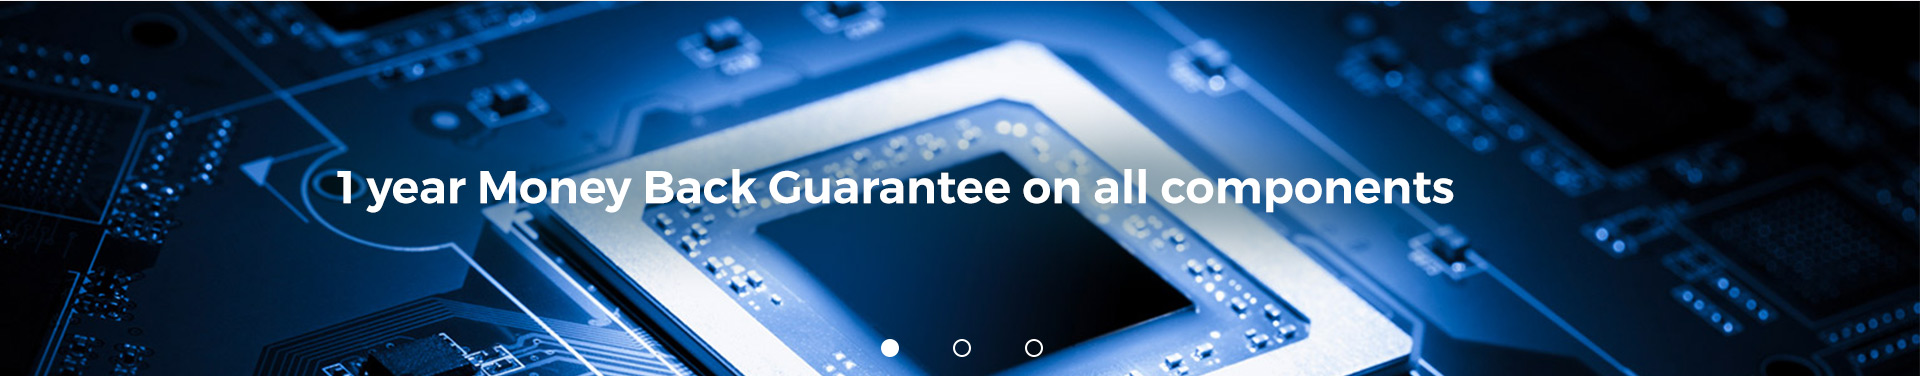
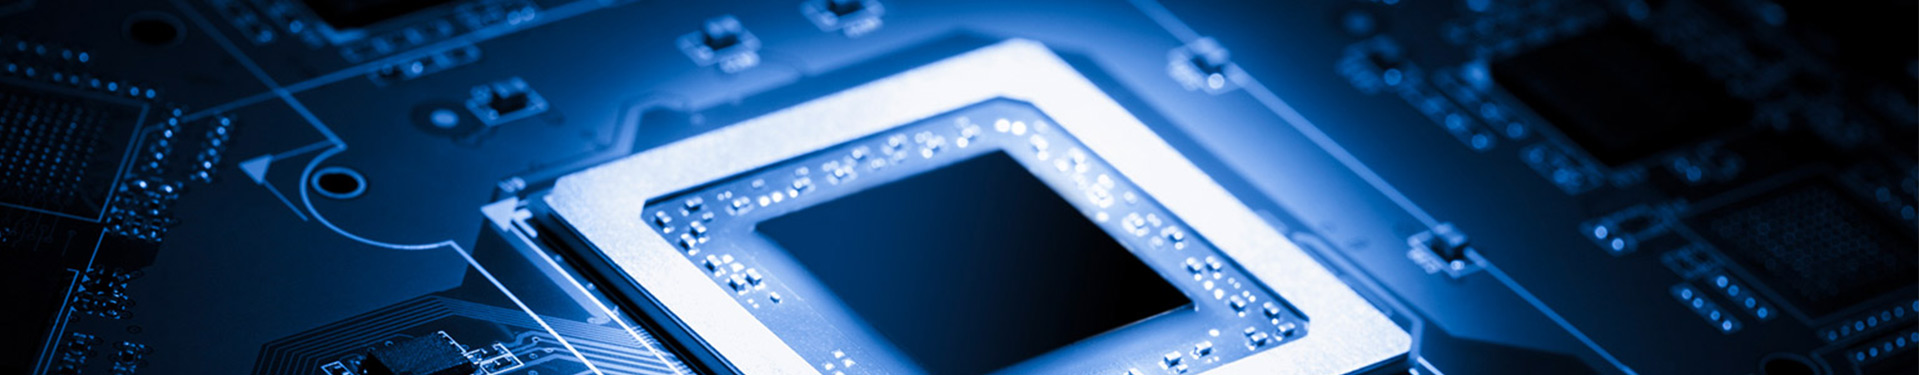
header+body (not adaptive for mobile)

diff --git a/index.html b/index.html
@@ -14,7 +14,7 @@
 			<div class="wrap-menu">
 				<div class="wrapper">	
 					<div class="logo">
-						<img src="img/logo-top.jpg" alt="">
+						<img src="img/logo.png" alt="">
 					</div>
 					<div class="top-menu">
 						<ul class="nav nav-tabs">
@@ -43,7 +43,7 @@
 					<div class="search-dropdown">
 						<div class="dropdown">
   							<button class="btn btn-default dropdown-toggle" type="button" id="dropdownMenu1" data-toggle="dropdown" aria-haspopup="true" aria-expanded="true">
-  							  Dropdown
+  							  English
   							  <span class="caret"></span>
   							</button>
   							<ul class="dropdown-menu" aria-labelledby="dropdownMenu1">
@@ -58,14 +58,64 @@
 				</div>
 			</div>
 			<div class="top-image">
+				<div class="wrapper">
+					<p>1 year Money Back Guarantee on all components</p>
+				</div>
 			</div>
+		</header>	
+		<div class="content">
 			<div class="our-goal">
 				<div class="wrapper">
 					<p>Our goal is to continnualy expeed you expectations</p>
 				</div>
 			</div>
-			
-		</header>
+			<div class="blocks">
+				<div class="wrapper">
+					<div class="row">
+  						<div class="col-md-4">
+  							<div class="component">
+  								<div class="component-describe">
+  									<h1>Component</h1>
+  									<p>We have global offices that span from the US to Singapore and eWe have global offices that span from the US to Singapore and eWe have global offices that span from the US to Singapore and e</p>
+  									<button type="submit" class="btn btn-primary">Read more</button>
+  								</div>
+  							</div>
+  						</div>
+  						<div class="col-md-4">
+  							<div class="component">
+  								<div class="component-describe">
+  									<h1>Component</h1>
+  									<p>We have global offices that span from the US to Singapore and eWe have global offices that span from the US to Singapore and eWe have global offices that span from the US to Singapore and e</p>
+  									<button type="submit" class="btn btn-primary">Read more</button>
+  								</div>
+  							</div>
+  						</div>
+  						<div class="col-md-4">
+  							<div class="component">
+  								<div class="component-describe">
+  									<h1>Component</h1>
+  									<p>We have global offices that span from the US to Singapore and eWe have global offices that span from the US to Singapore and eWe have global offices that span from the US to Singapore and e</p>
+  									<button type="submit" class="btn btn-primary">Read more</button>
+  								</div>
+  							</div>
+  						</div>
+					</div>
+				</div>
+			</div>
+			<div class="brands">
+				<p>Brands we specializes in </p>
+			</div>
+			<div class="brands-icon">
+				<div class="wrapper">
+ 					<div class="row">
+  						<div class="col-md-4">.col-md-4</div>
+  						<div class="col-md-4">.col-md-4</div>
+  						<div class="col-md-4">.col-md-4</div>
+					</div>
+				</div>
+			</div>
+		</div>		
+		
 	
 
 	</body>

diff --git a/css/style.css b/css/style.css
@@ -38,6 +38,9 @@ float: left;
 header{
 	width: 100%;
 }
+.logo {
+	margin-top: 21px;
+}
 .wrap-menu{
 	background-color: #003249;
 	height: 100px;
@@ -52,8 +55,9 @@ header{
 .nav-tabs > li.active > a{
 	height: 100px;
 }
-.nav-tabs > li > a{
+.top-menu .nav-tabs > li > a{
 	height: 100px;
+	border-radius: 0px;
 }
 .top-menu .nav > li > a {
 	padding: 39px 24px;
@@ -91,16 +95,65 @@ header{
 	margin-top: 10px;
 	margin-bottom: 10px;
 }
+.search-dropdown .btn{
+	border-radius: 0px;
+	border: 2px solid #000;
+	width: 133px;
+}
 /*top-image*/
 .top-image{
 	background-image: url(../img/top-image.jpg);
+	background-repeat: no-repeat;
+	background-size:100%;
 	height: 370px;
+	color: white;
+	font-size: 30px;
+	padding-top: 167px;
+	letter-spacing: 9px;
+	font-weight: bold;
 }
+/*content*/
 /*our goal*/
 .our-goal {
 	background-color: #f0edee;
 	font-size: 24px;
 	font-weight: bold;
 	padding: 10px 608px;
+	text-align: center;
 }
-
+/*blocks*/
+.blocks .row{
+	padding: 30px 0px;
+}
+.component {
+	background-image: url(../img/component.jpg);
+	background-repeat: no-repeat;
+	height: 450px;
+	padding-top: 165px;
+}
+.component-describe {
+	background-image: url(../img/zalivka.png);
+	height: 285px;
+	padding: 20px 35px 30px 35px;
+}
+.component-describe h1{
+	margin: 0px;
+}
+.component-describe p{
+	margin: 50px 0px 30px 0px;
+	font-weight: 500;
+}
+.component-describe .btn{
+	width: 227px;
+	background-color: #0593bb;
+	border-radius: 0px;
+}
+/*brands*/
+.brands{
+	background-color: #f0edee;
+	height: 100px;
+	text-align: center;
+	font-size: 30px;
+	font-weight: 600;
+	padding-top: 28px;
+}
